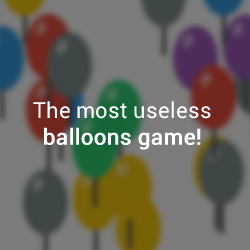
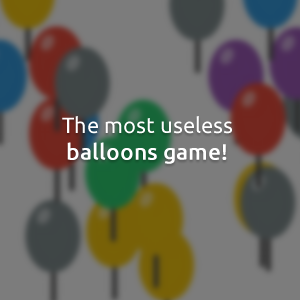
new portfolio

diff --git a/index.html b/index.html
@@ -21,20 +21,6 @@
 
 	<div class="fullpane">
 		<div class="fullcontainer">
-			<div class="left">
-				<img src="img/works/plaay-app-full.png" />
-			</div>
-			<div class="right">
-				<h2>Plaay Beta</h2>
-				<span class="top">
-					<span class="sticker">2014</span>
-					<span class="sticker">Plaay</span>
-					<span class="sticker">Plaay</span>
-					<span class="sticker">Plaay</span>
-				</span>
-				<p>Lorem ipsum dolor sit amet</p>
-				<a href="http://google.com" target="_blank" class="see">Veja o pen</a>
-			</div>
 			<a href="#" class="close"><span class="fa fa-close">close</span></a>
 		</div>
 	</div>
@@ -67,28 +53,20 @@
 		<ul data-height>
 			<li><a href="#top">Rena.to</a></li>
 			<li><a href="#works">Trabalhos</a></li>
-			<li><a href="#about">Sobre</a></li>
+			<li><a href="#about">Quem sou</a></li>
 			<li><a href="#contact">Contato</a></li>
 		</ul>
 	</nav>
 	<header id="top" data-height>
 		<div data-valign>
 			<h1 class="animated fadeInDown">Renato Ribeiro</h1>
-			<small class="animated letterSpacing">Frontend</small>
+			<small class="animated letterSpacing">Frontend Developer</small>
 		</div>
 		<div class="clearfix"></div>
 	</header>
 
 	<section id="works" class="dark spaced">
 		<h2 class="wow fadeIn">Trabalhos, projetos <span>& drops</span></h2>
-		<!-- <div class="og-grid-wrapper wow fadeIn">
-			<ul id="og-grid" class="og-grid">
-
-			</ul>
-		</div> -->
-		<!-- <div class="grid" id="portfolio">
-
-		</div> -->
 		<section class="grid-wrap">
 		    <ul class="grid swipe-rotate" id="portfolio">
 		        
@@ -98,10 +76,10 @@
 	</section>
 
 	<section id="about" class="light spaced">	
-		<h2 class="wow fadeIn open-pane" data-work="3">Sobre</h2>
+		<h2 class="wow fadeIn open-pane" data-work="3">Quem sou</h2>
 		<article class="wow fadeIn">
 			<p>
-				<strong>Renato Ribeiro, 18</strong>. Nasci e cresci em <strong>São Paulo, Capital</strong>. Desde muito novo envolvido com computação, comecei a programar aos treze anos de idade com incentivo da mente criativa e curiosa junto ao desejo de aprender como as coisas eram feitas. Também gosto muito de aprender novas tecnologias, acho que conhecimento sempre há espaço para mais.
+				<strong>Renato Ribeiro, 18</strong>. Nasci e cresci em <strong>São Paulo, Capital</strong>. Desde muito novo envolvido com computação, comecei a programar aos treze anos de idade com incentivo da mente criativa e curiosa junto ao desejo de aprender como as coisas são feitas. Também gosto muito de aprender novas tecnologias de forma autodidata, penso que sempre há espaço para mais conhecimento.
 			</p>
 			<p>
 				Com treze anos, em 2009, fiz meu primeiro curso de web, que durou dois anos. Aos quinze, em 2011, comecei a trabalhar na <a href="http://embimarketing.com.br/" target="_blank">EMBI Marketing</a> como <strong>web designer</strong>. Fiz curso intensivo de <strong>PHP</strong> na <a href="http://www.impacta.com.br" target="_blank">Impacta</a> ainda com quinze, e em 2013, com dezessete, comecei na <a href="http://nokitua.com.br/" target="_blank">Nokitua</a> como <strong>desenvolvedor backend e frontend</strong>. Hoje, com dezoito, atuo como <strong>desenvolvedor frontend</strong> na <a href="http://plaay.com.br/" target="_blank">Plaay</a>, e também como <strong>freelancer</strong>.
@@ -114,13 +92,13 @@
 		<!-- <h2 class="wow fadeInDown">Contato</h2> -->
 		<article> 
 			<p class="wow fadeIn center">
-				Mande um <code>ola@rena.to</code>
+				Mande um <a href="mailto:ola@rena.to">ola@rena.to</a>
 			</p>
 			<br /><br />
 			<p class="wow fadeIn center">
-				<a href="http://fb.me/renatoribeiiro" traget="_blank">facebook</a> ∫ 
-				<a href="http://twitter.com/hellorenato" traget="_blank">twitter</a> ∫ 
-				<a href="http://github.com/renatorib" traget="_blank">github</a> ∫ 
+				<a href="http://fb.me/renatoribeiiro" traget="_blank">facebook</a> •
+				<a href="http://twitter.com/hellorenato" traget="_blank">twitter</a> • 
+				<a href="http://github.com/renatorib" traget="_blank">github</a> • 
 				<a href="http://codepen.io/renatorib" traget="_blank">codepen</a>
 			</p>
 		</article>
@@ -170,7 +148,7 @@
 	<script type="text/html" id="work-block">
 		<li data-id="${id}">
 			<a href="#work-${img}" class="open-pane" data-work="${id}" data-hash="${img}">
-				<img src="img/works/${img}.png" alt="${title}">
+				<img src="img/works/${img}.png?v9" alt="${title}">
 				<h3>${title}</h3>
 			</a>
 		</li>

diff --git a/js/works.js b/js/works.js
@@ -8,6 +8,14 @@ var works = [
 		description: "Todo o frontend do aplicativo desktop do novo Plaay para Windows e Mac. Feito em html, css e backbone marionette com node-webkit.<br />Design por: <a href='http://perobelidesign.tumblr.com/'>Felipe Perobeli</a>."
 	},
 	{
+		title: 'jAnimate',
+		url: 'http://renatorib.github.io/janimate/',
+		urltext: 'Visite o site',
+		img: 'janimate',
+		stickers: ['2014', 'jQuery', 'Plugin'],
+		description: "Plugin de jQuery para Animate.css.<br /><a href='http://github.com/renatorib/janimate' target='_blank'>Forke o projeto no Github</a>"
+	},
+	{
 		title: 'Plaay Beta',
 		url: 'http://beta.plaay.com.br/',
 		urltext: 'Visite o site',
@@ -16,20 +24,20 @@ var works = [
 		description: "Frontend da landing page do novo <a href='http://plaay.com.br/'>Plaay</a>. Feito em wordpress.<br />Design por: <a href='http://perobelidesign.tumblr.com/'>Felipe Perobeli</a>."
 	},
 	{
+		title: 'Tinder CSS3',
+		url: 'http://codepen.io/renatorib/full/extCA',
+		urltext: 'Visite o pen',
+		img: 'tinder',
+		stickers: ['2014', 'Codepen', 'CSS Animations'],
+		description: "Simulação dos efeitos do Tinder com animações em css."
+	},
+	{
 		title: 'Melhor Idade Moderna',
 		url: 'http://melhoridademoderna.com.br/',
 		urltext: 'Visite o site',
 		img: 'mim',
 		stickers: ['2013', 'Plaay', 'Landing page', 'Backend'],
 		description: "Todo o frontend e backend da landing page. <br />Desenvolvido em parceria com a <a href='http://nokitua.com.br' target='_blank'>Nokitua</a> e <a href='http://meshup.com.br' target='_blank'>Mesh.up</a>."
-	},
-	{
-		title: 'jAnimate',
-		url: 'http://renatorib.github.io/janimate/',
-		urltext: 'Visite o site',
-		img: 'janimate',
-		stickers: ['2014', 'jQuery', 'Plugin'],
-		description: "Plugin de jQuery para Animate.css.<br /><a href='http://github.com/renatorib/janimate' target='_blank'>Forke o projeto no Github</a>"
 	},
 	{
 		title: 'Balloons Game',
@@ -46,14 +54,6 @@ var works = [
 		img: 'mouse_balls',
 		stickers: ['2014', 'Codepen', 'jQuery', 'CSS Animations'],
 		description: "Codepen criado para estudos de mouse events.<br />Todas as animações com css transform e dinamicidade com jQuery. Também foi usado sass e prefixfree."
-	},
-	{
-		title: 'Tinder CSS3',
-		url: 'http://codepen.io/renatorib/full/extCA',
-		urltext: 'Visite o pen',
-		img: 'tinder',
-		stickers: ['2014', 'Codepen', 'CSS Animations'],
-		description: "Simulação dos efeitos do Tinder com animações em css."
 	},
 ];
 

diff --git a/css/style.css b/css/style.css
@@ -36,6 +36,7 @@ html {
 }
 
 body {
+	display: none;
 	font-family: "Raleway";
 	background: #ecf0f1;
 	margin: 0;
@@ -51,6 +52,13 @@ header {
 	width: 100%;
 	position: fixed;
 	z-index: 1;
+}
+
+.valign {
+	position: absolute;
+	top: 50%;
+	left: 50%;
+	transform: translatey(-50%) translatex(-50%);
 }
 
 header > div {
@@ -89,9 +97,9 @@ header h1 {
 
 header small {
 	margin-top: 10px;
-	font-size: 16px;
-	font-weight: 200;
-	color: #BFFF00;
+	font-size: 14px;
+	font-weight: bold;
+	color: #69DD00;
 	text-transform: uppercase;
 }
 
@@ -292,22 +300,6 @@ code {
 	background: #fff;
 	padding: 3px 6px;
 	border-radius: 3px;
-}
-
-#og-grid li a.block {
-	height: 250px;
-	width: 250px;
-	background-size: 250px 250px;
-	background-position: center;
-	border: 1px solid #ccc;
-	-webkit-filter: grayscale(1);
-	transition: all .3s linear;
-}
-
-#og-grid li.og-expanded a.block,
-#og-grid a.block:hover {
-	-webkit-filter: grayscale(0);
-	transition: all .2s linear;
 }
 
 #portfolio {

diff --git a/css/animate.min.css b/css/animate.min.css
@@ -13,7 +13,7 @@ Copyright (c) 2013 Daniel Eden
 		opacity: 0;
 	}
 	100% {
-		letter-spacing: 10px;
+		letter-spacing: 7px;
 		opacity: 1;
 	}
 }
@@ -24,7 +24,7 @@ Copyright (c) 2013 Daniel Eden
 		opacity: 0;
 	}
 	100% {
-		letter-spacing: 10px;
+		letter-spacing: 7px;
 		opacity: 1;
 	}
 }

diff --git a/js/main.js b/js/main.js
@@ -1,5 +1,7 @@
 $(document).ready(function(){
 
+	$('body').fadeIn('300');
+
 	var main = {
 		header: function(){
 			var windowheight = $(window).height();

diff --git a/css/grid.css b/css/grid.css
@@ -174,7 +174,7 @@
 
 
 .grid:hover li {
-	opacity: .5;
+	opacity: .8;
 	transition: all .3s ease;
 }
 
